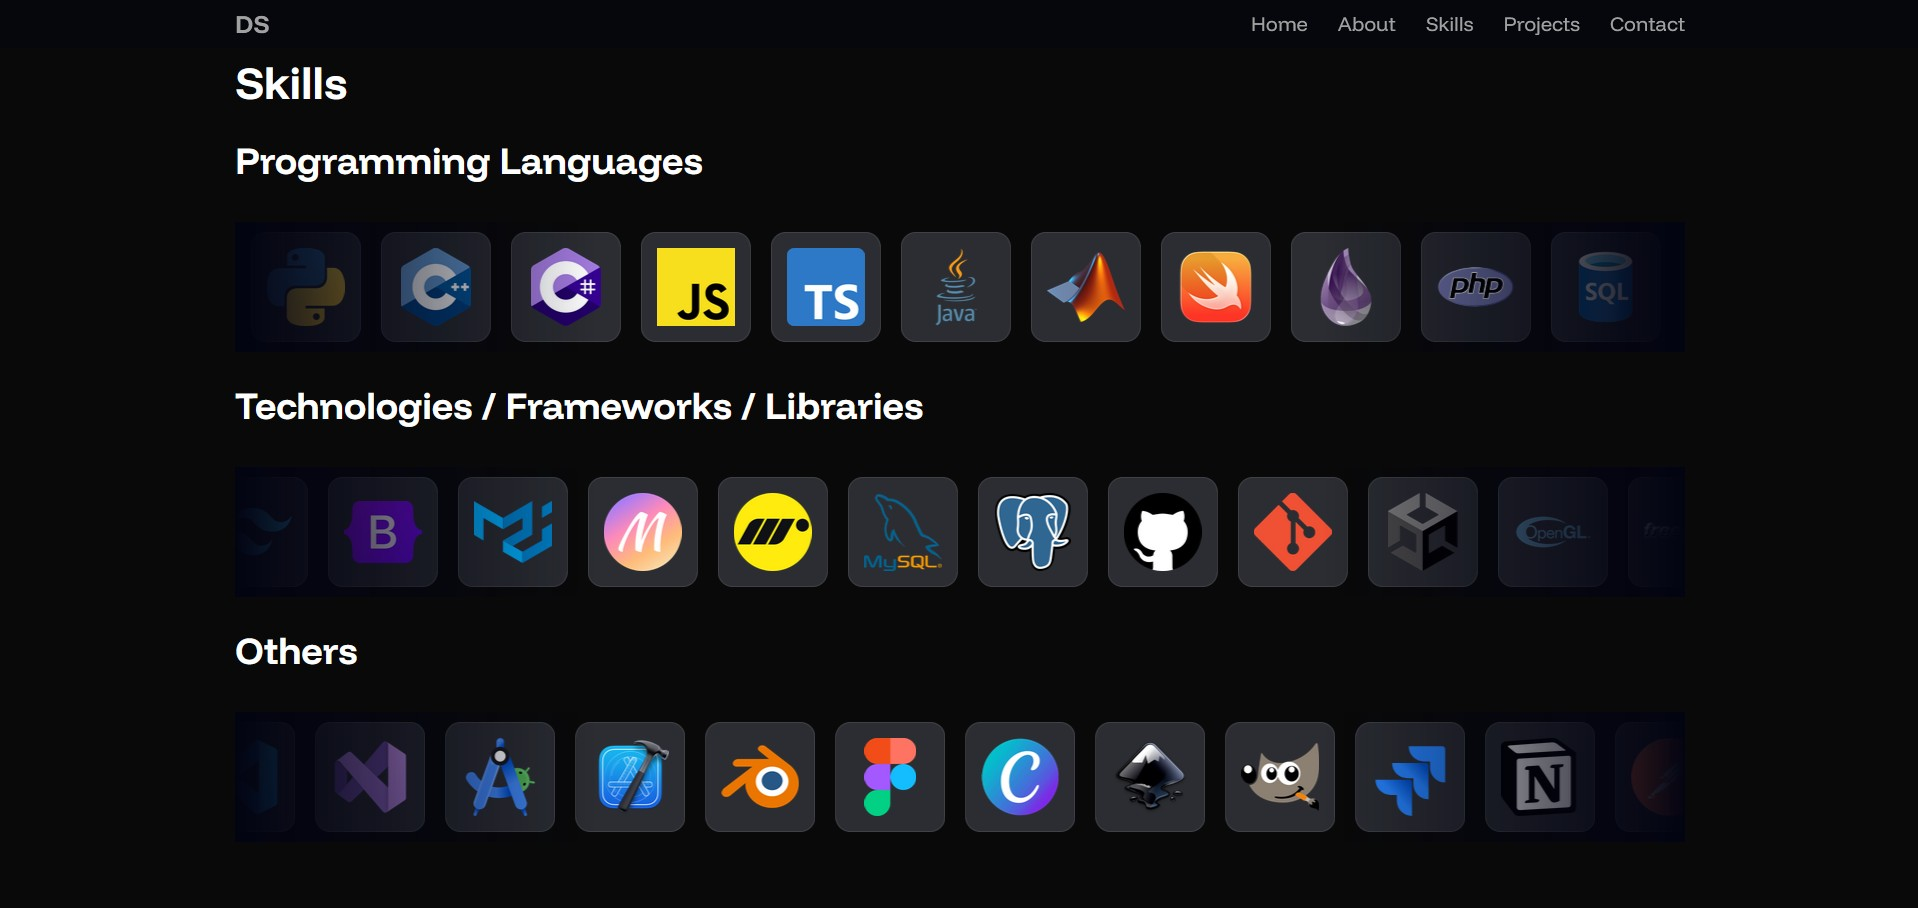
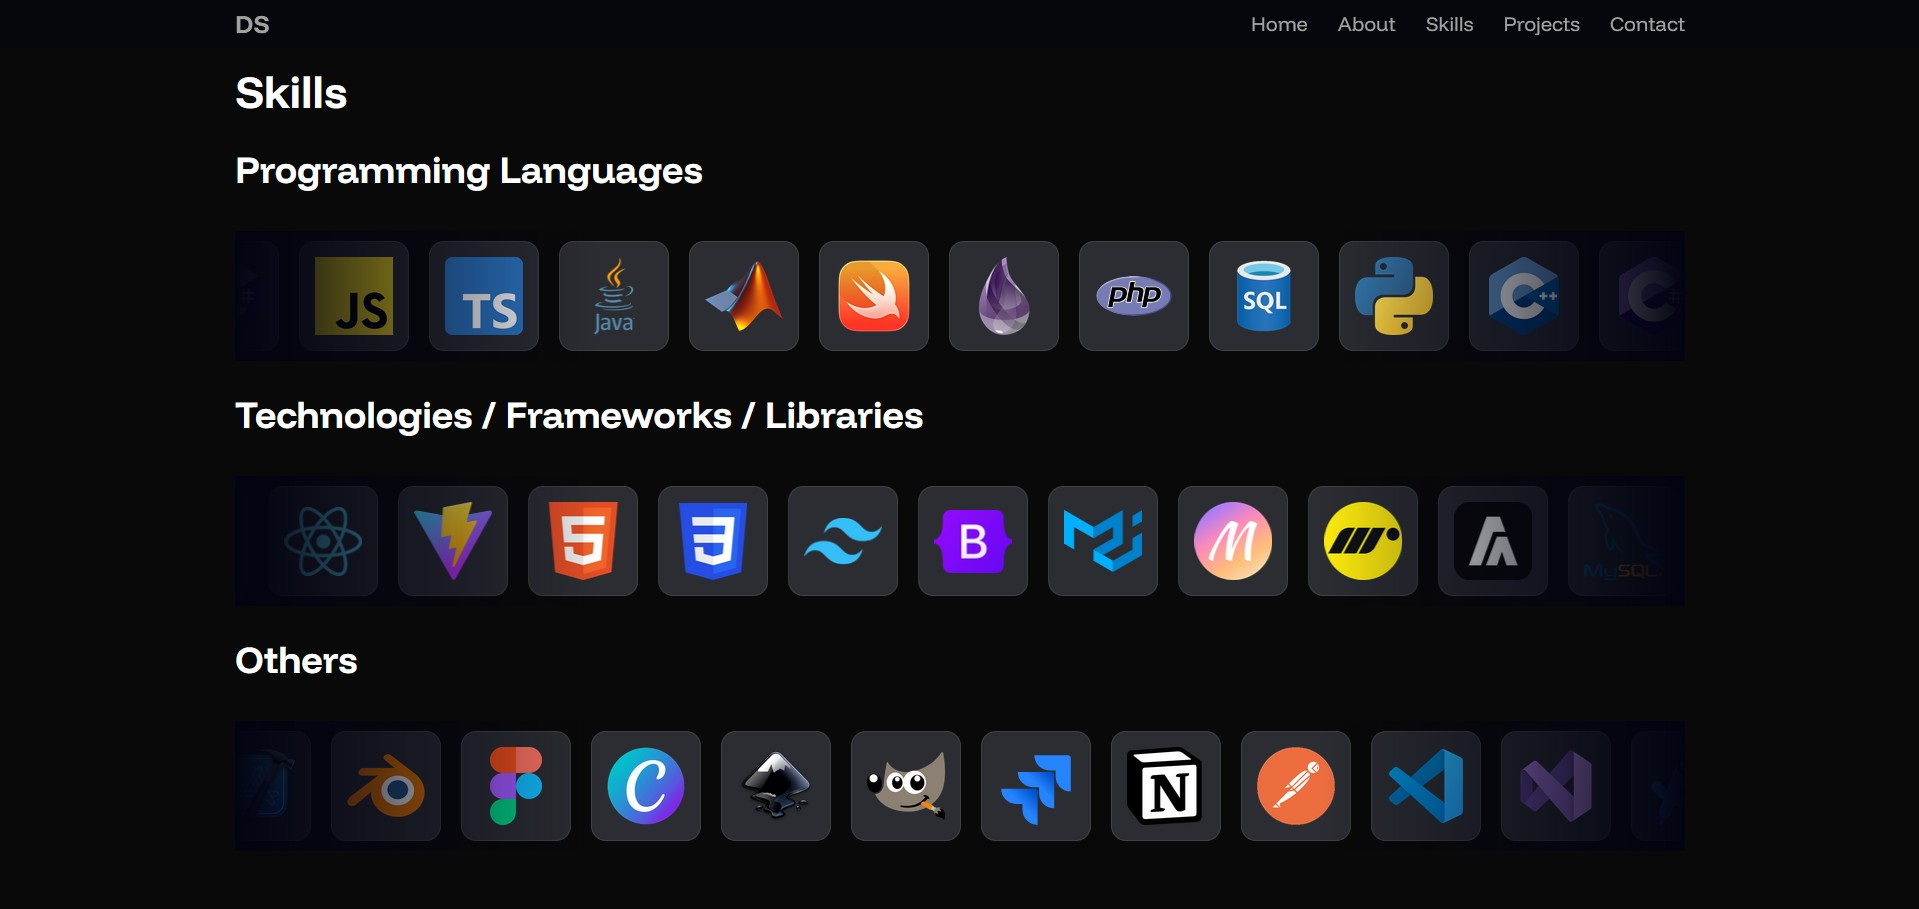
Some changes

diff --git a/src/constants/projects.js b/src/constants/projects.js
@@ -19,23 +19,13 @@ export const projects = [
       },
       {
         id: 3,
-        name: "HTML",
+        name: "HTML5",
         path: "/assets/logos/html.png",
       },
       {
         id: 4,
         name: "Tailwind CSS",
         path: "/assets/logos/tailwind.png",
-      },
-      {
-        id: 5,
-        name: "Magic UI",
-        path: "/assets/logos/magicui.png",
-      },
-      {
-        id: 6,
-        name: "Motion",
-        path: "/assets/logos/motion.png",
       },
     ],
   },
@@ -59,23 +49,13 @@ export const projects = [
       },
       {
         id: 3,
-        name: "HTML",
+        name: "HTML5",
         path: "/assets/logos/html.png",
       },
       {
         id: 4,
         name: "Tailwind CSS",
         path: "/assets/logos/tailwind.png",
-      },
-      {
-        id: 5,
-        name: "Magic UI",
-        path: "/assets/logos/magicui.png",
-      },
-      {
-        id: 6,
-        name: "Motion",
-        path: "/assets/logos/motion.png",
       },
     ],
   },
@@ -98,12 +78,12 @@ export const projects = [
       },
       {
         id: 3,
-        name: "HTML",
+        name: "HTML5",
         path: "/assets/logos/html.png",
       },
       {
         id: 4,
-        name: "CSS",
+        name: "CSS3",
         path: "/assets/logos/css.png",
       },
       {
@@ -127,23 +107,23 @@ export const projects = [
     tags: [
       {
         id: 1,
-        name: "HTML",
+        name: "HTML5",
         path: "/assets/logos/html.png",
       },
       {
         id: 2,
-        name: "CSS",
+        name: "CSS3",
         path: "/assets/logos/css.png",
       },
       {
         id: 3,
-        name: "Bootstrap",
-        path: "/assets/logos/bootstrap.png",
+        name: "JavaScript",
+        path: "/assets/logos/javascript.png",
       },
       {
         id: 4,
-        name: "JavaScript",
-        path: "/assets/logos/javascript.png",
+        name: "Bootstrap",
+        path: "/assets/logos/bootstrap.png",
       },
       {
         id: 5,
